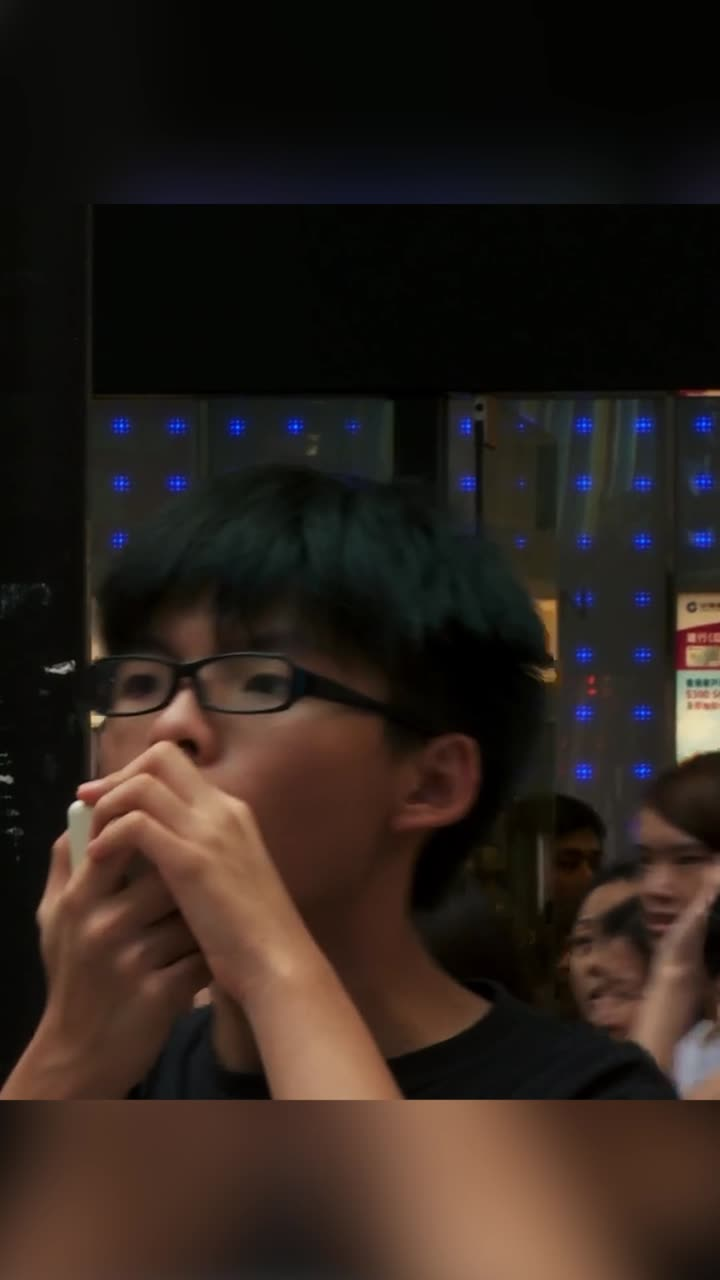
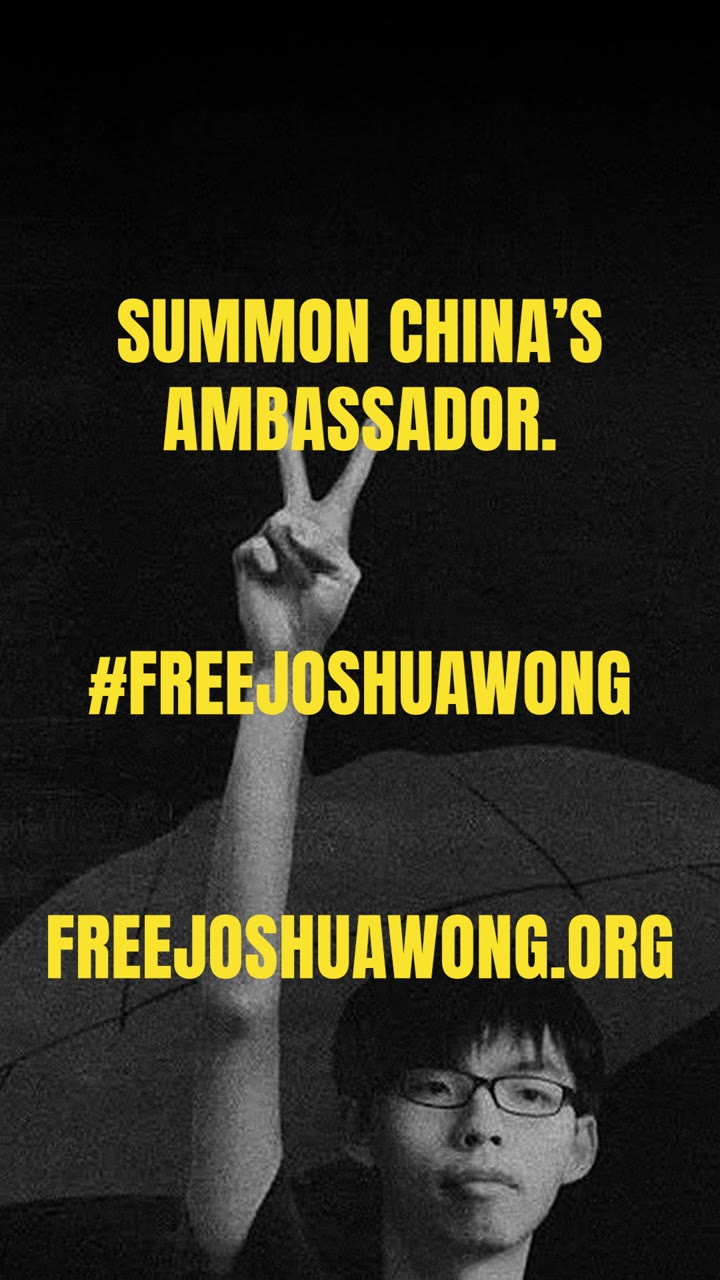
Video page: side-by-side layout (reel left, download and posts right), stacks on phones; poster is the closing 'Summon China's Ambassador' frame
Claude-Session: https://claude.ai/code/session_01MmFPUxjbpQwA3Rhx7JyWtd

diff --git a/video.html b/video.html
@@ -21,7 +21,7 @@
 <link rel="preconnect" href="https://fonts.googleapis.com">
 <link rel="preconnect" href="https://fonts.gstatic.com" crossorigin>
 <link href="https://fonts.googleapis.com/css2?family=Anton&family=Montserrat:wght@500;600;700;800&family=Newsreader:ital,opsz,wght@0,6..72,300..600;1,6..72,300..500&display=swap" rel="stylesheet">
-<link rel="stylesheet" href="assets/site.css?v=b612356e">
+<link rel="stylesheet" href="assets/site.css?v=5a71a829">
 <script data-goatcounter="https://freejoshuawong.goatcounter.com/count" async src="https://gc.zgo.at/count.js"></script>
 </head>
 <body>
@@ -41,31 +41,24 @@
   </div>
 </header>
 
-<section class="film" style="border-top:0">
-  <div class="wrap">
-    <div class="reel-player"><video controls preload="metadata" playsinline poster="images/what-has-the-pm-done-poster.jpg"><source src="media/what-has-the-pm-done.mp4" type="video/mp4">Your browser can’t play this video. <a href="media/what-has-the-pm-done.mp4" download="Free-Joshua-Wong-video.mp4">Download it instead.</a></video></div>
-    <div class="video-dl" style="display:flex;flex-wrap:wrap;gap:12px;margin-top:24px">
+<section class="reel-sec">
+  <div class="wrap reel-wrap">
+    <div class="reel-player"><video controls preload="metadata" playsinline poster="images/what-has-the-pm-done-poster.jpg?v=2"><source src="media/what-has-the-pm-done.mp4" type="video/mp4">Your browser can’t play this video. <a href="media/what-has-the-pm-done.mp4" download="Free-Joshua-Wong-video.mp4">Download it instead.</a></video></div>
+    <div class="reel-side">
+      <div class="label">Watch. Download. Post.</div>
+      <h3 class="reel-h">Post it.<br><span>Tag your MP.</span></h3>
+      <p class="reel-p">Download the video and post it on your own channels, with a line in your own words, or copy one of ours.</p>
+      <div class="video-dl">
         <a class="btn" href="media/what-has-the-pm-done.mp4" download="Free-Joshua-Wong-video.mp4">Download the video (MP4, with captions)</a>
-    </div>
-    <p style="margin-top:14px;font-size:15px;opacity:.75">Free to share and to post on your own channels. Please don’t edit it. Full HD, portrait, about 50&nbsp;MB. On a phone, if the video opens instead of downloading, press and hold the button and choose “Download” or “Save”.</p>
-  </div>
-</section>
-
-<section id="share">
-  <div class="wrap">
-    <div class="share" style="margin-top:0">
-      <div>
-        <div class="label">Share</div>
-        <h3>Post it.<br><span>Tag your MP.</span></h3>
-        <p class="lede" style="font-size:18px">Download the video and post it on your own channels, with a line in your own words. Or copy one of ours.</p>
-        <div data-share data-url="https://freejoshuawong.org/video.html" data-text="What has the Prime Minister done for Joshua Wong?"></div>
       </div>
-      <div>
+      <p class="reel-note">Full HD, portrait, about 50&nbsp;MB, captions included. Free to share; please don’t edit it. On a phone, if the video opens instead of downloading, press and hold the button and choose “Download” or “Save”.</p>
+      <div class="reel-posts">
         <div class="post"><p>When Jimmy Lai was convicted, the UK summoned the Chinese Ambassador the same day. Joshua Wong was sentenced to ten years on 5 November. There has been no public word of the Ambassador being summoned. <b>#FreeJoshuaWong #JoshuaWong</b></p><button class="copy" type="button">Copy</button></div>
         <div class="post"><p>Britain signed the Joint Declaration in 1984 and guaranteed Hong Kong’s freedoms for fifty years. Joshua Wong only asked us to keep our word. He has now been sentenced to ten years. <b>#FreeJoshuaWong #JoshuaWong</b></p><button class="copy" type="button">Copy</button></div>
       </div>
+      <div data-share data-url="https://freejoshuawong.org/video.html" data-text="What has the Prime Minister done for Joshua Wong?"></div>
+      <p class="reel-more">Want to do more? <a href="act.html#mp">Ask your MP to raise Joshua’s case</a>, or see what ministers have been <a href="index.html#asked">asked and what they have said</a>.</p>
     </div>
-    <p style="margin-top:40px">Want to do more? <a href="act.html#mp">Ask your MP to raise Joshua’s case</a>, or see what ministers have been <a href="index.html#asked">asked and what they have said</a>.</p>
   </div>
 </section>
 <section class="cta-band">
@@ -105,6 +98,6 @@
     </div>
   </div>
 </footer>
-<script src="assets/site.js?v=b612356e"></script>
+<script src="assets/site.js?v=5a71a829"></script>
 </body>
 </html>

diff --git a/assets/site.css b/assets/site.css
@@ -1152,6 +1152,23 @@ nav.top .links a,nav.top .btn{white-space:nowrap}
 .kb-feature{margin-top:0;padding-top:40px}
 @media(max-width:600px){.film-note{gap:16px}.film-note .big{font-size:56px}}
 
-/* Campaign video page: the player takes the reel's own shape (portrait, square or landscape), never cropped */
-.reel-player{display:flex;justify-content:center}
-.reel-player video{display:block;width:auto;max-width:100%;height:auto;max-height:80vh;min-height:240px;background:#000;border:1px solid rgba(244,242,236,.1)}
+/* Campaign video page: portrait reel on the left, everything to do with it on the right */
+.reel-sec{padding:64px 0 80px}
+.reel-wrap{display:grid;grid-template-columns:minmax(0,400px) minmax(0,1fr);gap:64px;align-items:start}
+.reel-player{display:flex;justify-content:center;position:sticky;top:96px}
+.reel-player video{display:block;width:100%;height:auto;max-height:82vh;object-fit:contain;background:#000;border:1px solid rgba(244,242,236,.12)}
+.reel-h{font-family:var(--display);font-weight:400;text-transform:uppercase;font-size:56px;line-height:.92;margin:12px 0 16px}
+.reel-h span{color:var(--accent)}
+.reel-p{font-size:19px;margin:0 0 22px;max-width:560px}
+.video-dl{display:flex;flex-wrap:wrap;gap:12px}
+.reel-note{margin:12px 0 30px;font-size:14px;opacity:.7;max-width:560px}
+.reel-posts .post{margin-bottom:12px}
+.reel-posts .post p{font-size:17px}
+.reel-more{margin-top:28px}
+@media(max-width:860px){
+  .reel-sec{padding:28px 0 56px}
+  .reel-wrap{grid-template-columns:1fr;gap:32px}
+  .reel-player{position:static}
+  .reel-player video{width:auto;max-width:100%;max-height:78vh;margin:0 auto}
+  .reel-h{font-size:42px}
+}

diff --git a/socials.html b/socials.html
@@ -20,7 +20,7 @@
 <link rel="preconnect" href="https://fonts.googleapis.com">
 <link rel="preconnect" href="https://fonts.gstatic.com" crossorigin>
 <link href="https://fonts.googleapis.com/css2?family=Anton&family=Montserrat:wght@500;600;700;800&family=Newsreader:ital,opsz,wght@0,6..72,300..600;1,6..72,300..500&display=swap" rel="stylesheet">
-<link rel="stylesheet" href="assets/site.css?v=b612356e">
+<link rel="stylesheet" href="assets/site.css?v=5a71a829">
 <script data-goatcounter="https://freejoshuawong.goatcounter.com/count" async src="https://gc.zgo.at/count.js"></script>
 </head>
 <body>
@@ -92,7 +92,7 @@
     </div>
   </div>
 </footer>
-<script src="assets/socials.js?v=b612356e"></script>
-<script src="assets/site.js?v=b612356e"></script>
+<script src="assets/socials.js?v=5a71a829"></script>
+<script src="assets/site.js?v=5a71a829"></script>
 </body>
 </html>

diff --git a/voices.html b/voices.html
@@ -20,7 +20,7 @@
 <link rel="preconnect" href="https://fonts.googleapis.com">
 <link rel="preconnect" href="https://fonts.gstatic.com" crossorigin>
 <link href="https://fonts.googleapis.com/css2?family=Anton&family=Montserrat:wght@500;600;700;800&family=Newsreader:ital,opsz,wght@0,6..72,300..600;1,6..72,300..500&display=swap" rel="stylesheet">
-<link rel="stylesheet" href="assets/site.css?v=b612356e">
+<link rel="stylesheet" href="assets/site.css?v=5a71a829">
 <script data-goatcounter="https://freejoshuawong.goatcounter.com/count" async src="https://gc.zgo.at/count.js"></script>
 </head>
 <body>
@@ -109,7 +109,7 @@
     </div>
   </div>
 </footer>
-<script src="assets/voices.js?v=b612356e"></script>
-<script src="assets/site.js?v=b612356e"></script>
+<script src="assets/voices.js?v=5a71a829"></script>
+<script src="assets/site.js?v=5a71a829"></script>
 </body>
 </html>

diff --git a/newsroom.html b/newsroom.html
@@ -20,7 +20,7 @@
 <link rel="preconnect" href="https://fonts.googleapis.com">
 <link rel="preconnect" href="https://fonts.gstatic.com" crossorigin>
 <link href="https://fonts.googleapis.com/css2?family=Anton&family=Montserrat:wght@500;600;700;800&family=Newsreader:ital,opsz,wght@0,6..72,300..600;1,6..72,300..500&display=swap" rel="stylesheet">
-<link rel="stylesheet" href="assets/site.css?v=b612356e">
+<link rel="stylesheet" href="assets/site.css?v=5a71a829">
 <script data-goatcounter="https://freejoshuawong.goatcounter.com/count" async src="https://gc.zgo.at/count.js"></script>
 </head>
 <body>
@@ -149,7 +149,7 @@
     </div>
   </div>
 </footer>
-<script src="assets/press.js?v=b612356e"></script>
-<script src="assets/site.js?v=b612356e"></script>
+<script src="assets/press.js?v=5a71a829"></script>
+<script src="assets/site.js?v=5a71a829"></script>
 </body>
 </html>

diff --git a/index.html b/index.html
@@ -20,7 +20,7 @@
 <link rel="preconnect" href="https://fonts.googleapis.com">
 <link rel="preconnect" href="https://fonts.gstatic.com" crossorigin>
 <link href="https://fonts.googleapis.com/css2?family=Anton&family=Montserrat:wght@500;600;700;800&family=Newsreader:ital,opsz,wght@0,6..72,300..600;1,6..72,300..500&display=swap" rel="stylesheet">
-<link rel="stylesheet" href="assets/site.css?v=b612356e">
+<link rel="stylesheet" href="assets/site.css?v=5a71a829">
 <script data-goatcounter="https://freejoshuawong.goatcounter.com/count" async src="https://gc.zgo.at/count.js"></script>
 </head>
 <body>
@@ -244,6 +244,6 @@ window.addEventListener('DOMContentLoaded',function(){
   </div>
 </footer>
 <script src="assets/messages.js"></script>
-<script src="assets/site.js?v=b612356e"></script>
+<script src="assets/site.js?v=5a71a829"></script>
 </body>
 </html>

diff --git a/write.html b/write.html
@@ -20,7 +20,7 @@
 <link rel="preconnect" href="https://fonts.googleapis.com">
 <link rel="preconnect" href="https://fonts.gstatic.com" crossorigin>
 <link href="https://fonts.googleapis.com/css2?family=Anton&family=Montserrat:wght@500;600;700;800&family=Newsreader:ital,opsz,wght@0,6..72,300..600;1,6..72,300..500&display=swap" rel="stylesheet">
-<link rel="stylesheet" href="assets/site.css?v=b612356e">
+<link rel="stylesheet" href="assets/site.css?v=5a71a829">
 <script data-goatcounter="https://freejoshuawong.goatcounter.com/count" async src="https://gc.zgo.at/count.js"></script>
 </head>
 <body>
@@ -115,6 +115,6 @@
   </div>
 </footer>
 <script src="assets/messages.js"></script>
-<script src="assets/site.js?v=b612356e"></script>
+<script src="assets/site.js?v=5a71a829"></script>
 </body>
 </html>

diff --git a/act.html b/act.html
@@ -20,7 +20,7 @@
 <link rel="preconnect" href="https://fonts.googleapis.com">
 <link rel="preconnect" href="https://fonts.gstatic.com" crossorigin>
 <link href="https://fonts.googleapis.com/css2?family=Anton&family=Montserrat:wght@500;600;700;800&family=Newsreader:ital,opsz,wght@0,6..72,300..600;1,6..72,300..500&display=swap" rel="stylesheet">
-<link rel="stylesheet" href="assets/site.css?v=b612356e">
+<link rel="stylesheet" href="assets/site.css?v=5a71a829">
 <script data-goatcounter="https://freejoshuawong.goatcounter.com/count" async src="https://gc.zgo.at/count.js"></script>
 </head>
 <body>
@@ -142,6 +142,6 @@ Yours sincerely,
     </div>
   </div>
 </footer>
-<script src="assets/site.js?v=b612356e"></script>
+<script src="assets/site.js?v=5a71a829"></script>
 </body>
 </html>

diff --git a/letters/open-letter-prime-minister-sept-2026.html b/letters/open-letter-prime-minister-sept-2026.html
@@ -20,7 +20,7 @@
 <link rel="preconnect" href="https://fonts.googleapis.com">
 <link rel="preconnect" href="https://fonts.gstatic.com" crossorigin>
 <link href="https://fonts.googleapis.com/css2?family=Anton&family=Montserrat:wght@500;600;700;800&family=Newsreader:ital,opsz,wght@0,6..72,300..600;1,6..72,300..500&display=swap" rel="stylesheet">
-<link rel="stylesheet" href="../assets/site.css?v=b612356e">
+<link rel="stylesheet" href="../assets/site.css?v=5a71a829">
 <script data-goatcounter="https://freejoshuawong.goatcounter.com/count" async src="https://gc.zgo.at/count.js"></script>
 </head>
 <body>
@@ -91,6 +91,6 @@
     </div>
   </div>
 </footer>
-<script src="../assets/site.js?v=b612356e"></script>
+<script src="../assets/site.js?v=5a71a829"></script>
 </body>
 </html>

diff --git a/letters/times-letter-nov-2026.html b/letters/times-letter-nov-2026.html
@@ -20,7 +20,7 @@
 <link rel="preconnect" href="https://fonts.googleapis.com">
 <link rel="preconnect" href="https://fonts.gstatic.com" crossorigin>
 <link href="https://fonts.googleapis.com/css2?family=Anton&family=Montserrat:wght@500;600;700;800&family=Newsreader:ital,opsz,wght@0,6..72,300..600;1,6..72,300..500&display=swap" rel="stylesheet">
-<link rel="stylesheet" href="../assets/site.css?v=b612356e">
+<link rel="stylesheet" href="../assets/site.css?v=5a71a829">
 <script data-goatcounter="https://freejoshuawong.goatcounter.com/count" async src="https://gc.zgo.at/count.js"></script>
 </head>
 <body>
@@ -84,6 +84,6 @@
     </div>
   </div>
 </footer>
-<script src="../assets/site.js?v=b612356e"></script>
+<script src="../assets/site.js?v=5a71a829"></script>
 </body>
 </html>

diff --git a/voices/alicia-kearns-mp-2026-11-05.html b/voices/alicia-kearns-mp-2026-11-05.html
@@ -20,7 +20,7 @@
 <link rel="preconnect" href="https://fonts.googleapis.com">
 <link rel="preconnect" href="https://fonts.gstatic.com" crossorigin>
 <link href="https://fonts.googleapis.com/css2?family=Anton&family=Montserrat:wght@500;600;700;800&family=Newsreader:ital,opsz,wght@0,6..72,300..600;1,6..72,300..500&display=swap" rel="stylesheet">
-<link rel="stylesheet" href="../assets/site.css?v=b612356e">
+<link rel="stylesheet" href="../assets/site.css?v=5a71a829">
 <script data-goatcounter="https://freejoshuawong.goatcounter.com/count" async src="https://gc.zgo.at/count.js"></script>
 </head>
 <body>
@@ -71,6 +71,6 @@
     </div>
   </div>
 </footer>
-<script src="../assets/site.js?v=b612356e"></script>
+<script src="../assets/site.js?v=5a71a829"></script>
 </body>
 </html>

diff --git a/voices/alicia-kearns-mp-2026-11-10.html b/voices/alicia-kearns-mp-2026-11-10.html
@@ -20,7 +20,7 @@
 <link rel="preconnect" href="https://fonts.googleapis.com">
 <link rel="preconnect" href="https://fonts.gstatic.com" crossorigin>
 <link href="https://fonts.googleapis.com/css2?family=Anton&family=Montserrat:wght@500;600;700;800&family=Newsreader:ital,opsz,wght@0,6..72,300..600;1,6..72,300..500&display=swap" rel="stylesheet">
-<link rel="stylesheet" href="../assets/site.css?v=b612356e">
+<link rel="stylesheet" href="../assets/site.css?v=5a71a829">
 <script data-goatcounter="https://freejoshuawong.goatcounter.com/count" async src="https://gc.zgo.at/count.js"></script>
 </head>
 <body>
@@ -71,6 +71,6 @@
     </div>
   </div>
 </footer>
-<script src="../assets/site.js?v=b612356e"></script>
+<script src="../assets/site.js?v=5a71a829"></script>
 </body>
 </html>
